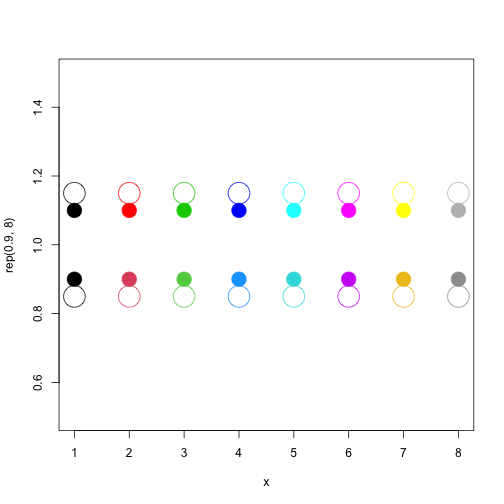
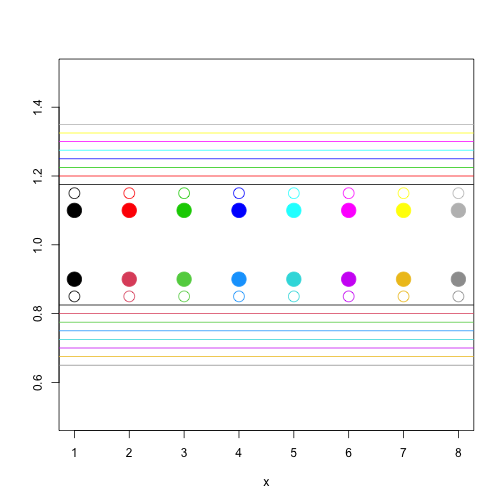
.

Changed region(s): [[0.119, 0.2381, 0.9524, 0.4167], [0.119, 0.5655, 0.9524, 0.7143], [0.0, 0.4167, 0.0298, 0.5357]]

diff --git a/_posts/2019-12-15-new-R-palette.md b/_posts/2019-12-15-new-R-palette.md
@@ -40,19 +40,28 @@ old scheme).
 
 # A practical example
 
-Here's a simple example that shows the new scheme
+Here's a simple example that shows the new scheme:
 
 {% highlight r linenos=table %}
 x <- 1:8
-palette("R4") # not actually needed unless R3 was previously selected
-plot(x, rep(0.9, 8), ylim=c(0.5,1.5), pch=20, cex=4, col=1:8)
-points(x, rep(0.85, 8), cex=4, col=1:8)
-palette("R3") # switch to the old scheme
+# The next call to palette() is not actually needed unless there was a prior
+# cal specifying R3.  Still, retaining this call is useful because it
+# means that the user does not have to check previous code (including in
+# functions they may not have written, to be sure that we are not using R3.
+palette("R4")
+plot(x, rep(0.9, 8), ylab="", ylim=c(0.5,1.5), pch=20, cex=4, col=1:8)
+points(x, rep(0.85, 8), cex=2, col=1:8)
+for (i in 1:8) abline(h=0.85-i/40, col=i)
+
+# Now, show th old colours. Note how bad the yellow is.
+palette("R3")
 points(x, rep(1.1, 8), pch=20, cex=4, col=1:8)
-points(x, rep(1.15, 8), cex=4, col=1:8)
+points(x, rep(1.15, 8), cex=2, col=1:8)
+for (i in 1:8) abline(h=1.15+i/40, col=i)
 {% endhighlight %}
 
 ![center](http://dankelley.github.io/figs/2019-12-15-new-R-palette/unnamed-chunk-2-1.png)
+
 
 Many viewers may find the new palette (lower dots) preferable to the old
 palette (upper dots).  For me, the biggest improvement is with the yellow dot,
